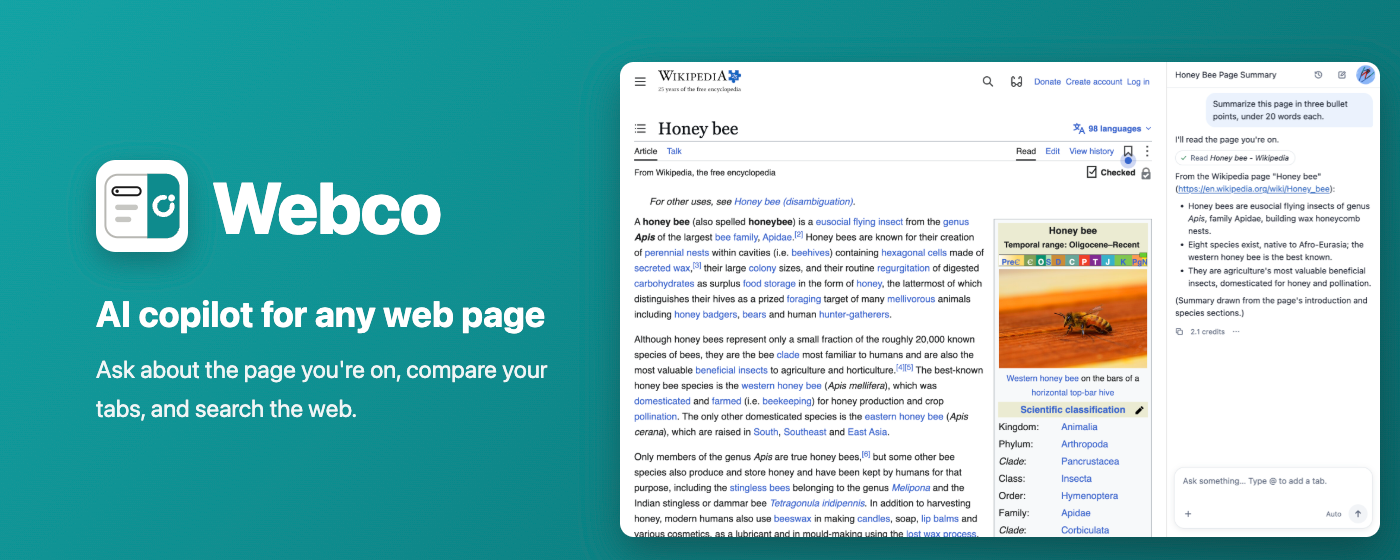
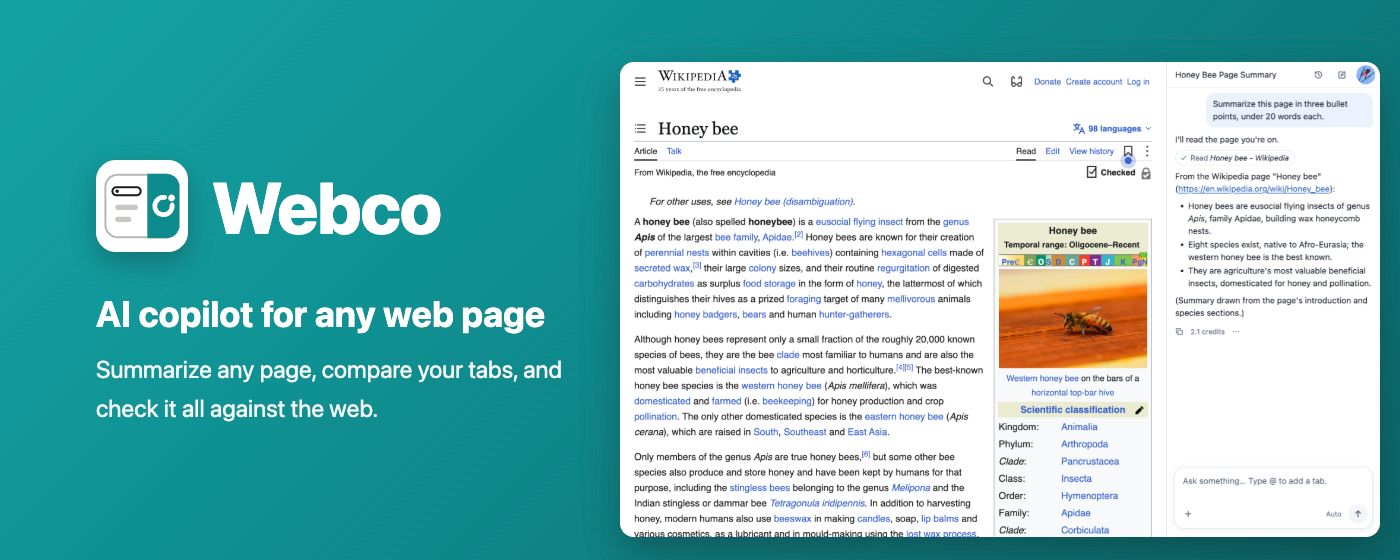
chore: say what Webco gets you, not what it reads
The store listing's opening line, the manifest's summary, the promo tiles, the READMEs, and
the changelog now lead with answers, summaries, and comparisons instead of "reads the page
you're on".

Changed region(s): [[0.0614, 0.6375, 0.3993, 0.7589]]

diff --git a/extensions/webco/manifest.ts b/extensions/webco/manifest.ts
@@ -85,7 +85,7 @@ export function buildManifest(env: ManifestEnv, version: string, { store = false
     ...(store ? {} : { version_name: `${version} dev` }),
     // The store's summary line: at most 132 characters, which the manifest test pins.
     description:
-      'AI copilot for any web page: ask about the page you are on, read other pages, and search the web. No subscription needed.',
+      'AI copilot for any web page: summarize it, ask about it, compare tabs, and check it against the web. No subscription needed.',
     ...(env.CRX_PUBLIC_KEY && !store ? { key: env.CRX_PUBLIC_KEY } : {}),
     icons: ICONS,
     // contextMenus and activeTab: the "Ask Webco" item, which reads the selection in the tab it was

diff --git a/README.md b/README.md
@@ -18,7 +18,7 @@ Each extension is installed on its own and has its own setup guide.
 |---|---|---|
 | <img src="extensions/notico/icons/icon.svg" alt="" width="20" height="20" /> **[Notico](extensions/notico/README.md)** | Notion | Reads and edits your Notion pages with you: pages, databases, comments, search. It can also read the page you are on elsewhere. [Install from the Chrome Web Store](https://chromewebstore.google.com/detail/notico-ai-copilot-for-not/moblfnjjebknafkgoifncombfnbfghom) |
 | <img src="extensions/confluco/icons/icon.svg" alt="" width="20" height="20" /> **[Confluco](extensions/confluco/README.md)** | Confluence | Reads, searches, and updates your Confluence pages, on Confluence Cloud and self-managed Confluence. It can also read the page you are on elsewhere. [Install from the Chrome Web Store](https://chromewebstore.google.com/detail/eolgkcpoohaeaedpcnljkldkpnjcdemm) |
-| <img src="extensions/webco/icons/icon.svg" alt="" width="20" height="20" /> **[Webco](extensions/webco/README.md)** | Any web page | Reads the page you are on and the tabs you add, reads web pages by their address, and searches the web. It reads, and changes nothing on any site. Coming to the Chrome Web Store. |
+| <img src="extensions/webco/icons/icon.svg" alt="" width="20" height="20" /> **[Webco](extensions/webco/README.md)** | Any web page | Gets you answers from any web page: summarizes and explains it, compares it with your other tabs, and checks it against the web. It changes nothing on any site. Coming to the Chrome Web Store. |
 
 ## One account for all of them
 

diff --git a/extensions/webco/store/listing.md b/extensions/webco/store/listing.md
@@ -5,14 +5,14 @@
 The text between the fences goes into the Description field as it is (plain text; the store keeps line breaks and shows no Markdown).
 
 ```text
-Ask any web page anything, right next to it. Webco is an AI copilot in Chrome's side panel that reads the page you're on, the tabs you add, and the web, and answers with its sources.
+Get answers from any web page without leaving it. Webco is an AI copilot in Chrome's side panel that summarizes, explains, and compares what you're reading, across your tabs and the web, and names its sources.
 
 ⚡ Nothing to set up: open the panel on any page and ask.
 👀 It only reads: Webco changes nothing on any site, and reads a site in your tabs only after you allow it.
 🆓 Free credits every week, then pay only for what you use. No subscription.
 🔓 Open source, and our server keeps nothing you ask or read.
 
-READ ANY PAGE
+UNDERSTAND ANY PAGE
 • Summarize the article, docs page, or thread you're on, or ask what it says about something.
 • Ask about a YouTube video: Webco reads its transcript and points to the moments it cites.
 • Long pages are read in parts, so nothing gets cut off.

diff --git a/extensions/webco/README.md b/extensions/webco/README.md
@@ -1,6 +1,6 @@
 # Webco
 
-Webco is an AI side panel for Chrome that works on any web page: ask about the page you're on, add other tabs to a question, ask about text you select, have it read a page by its address, and search the web. It reads, and changes nothing on any site. The first time it needs a site, it asks you to allow it, and Chrome asks too. It can read a YouTube video's transcript. It uses the same Cofun account and credit balance as Notico and Confluco.
+Webco is an AI side panel for Chrome that gets you answers from any web page: it summarizes and explains the page you're on, compares it with other tabs you add to a question, explains text you select, reads a page by its address, and searches the web. It reads, and changes nothing on any site. The first time it needs a site, it asks you to allow it, and Chrome asks too. It can read a YouTube video's transcript. It uses the same Cofun account and credit balance as Notico and Confluco.
 
 The model can summarize earlier messages to continue a long chat. You can still read the original messages when you reopen it. OpenRouter models need a context window of at least 200,000 tokens.
 

diff --git a/extensions/webco/CHANGELOG.md b/extensions/webco/CHANGELOG.md
@@ -8,7 +8,7 @@ First release.
 
 ### Added
 
-- An AI side panel next to any web page: ask in plain words about the page you're on, and it reads it and answers, showing each step as it goes. It reads, and changes nothing on any site.
+- Answers from any web page, in a side panel next to it: summarize the page you're on, ask about it in plain words, and see each step as it goes. It reads, and changes nothing on any site.
 - The first time it needs a site, Webco and then Chrome ask you to allow it. It reads the page in your own tab, so it sees what the page shows you.
 - Add several open tabs to one question with @ or the + button, and compare or combine them.
 - Read a link by its address, or search the web, with the sources named. Searches and pages rendered for you cost credits, or switch on "Search with DuckDuckGo" in Settings to search for free in a background tab.
